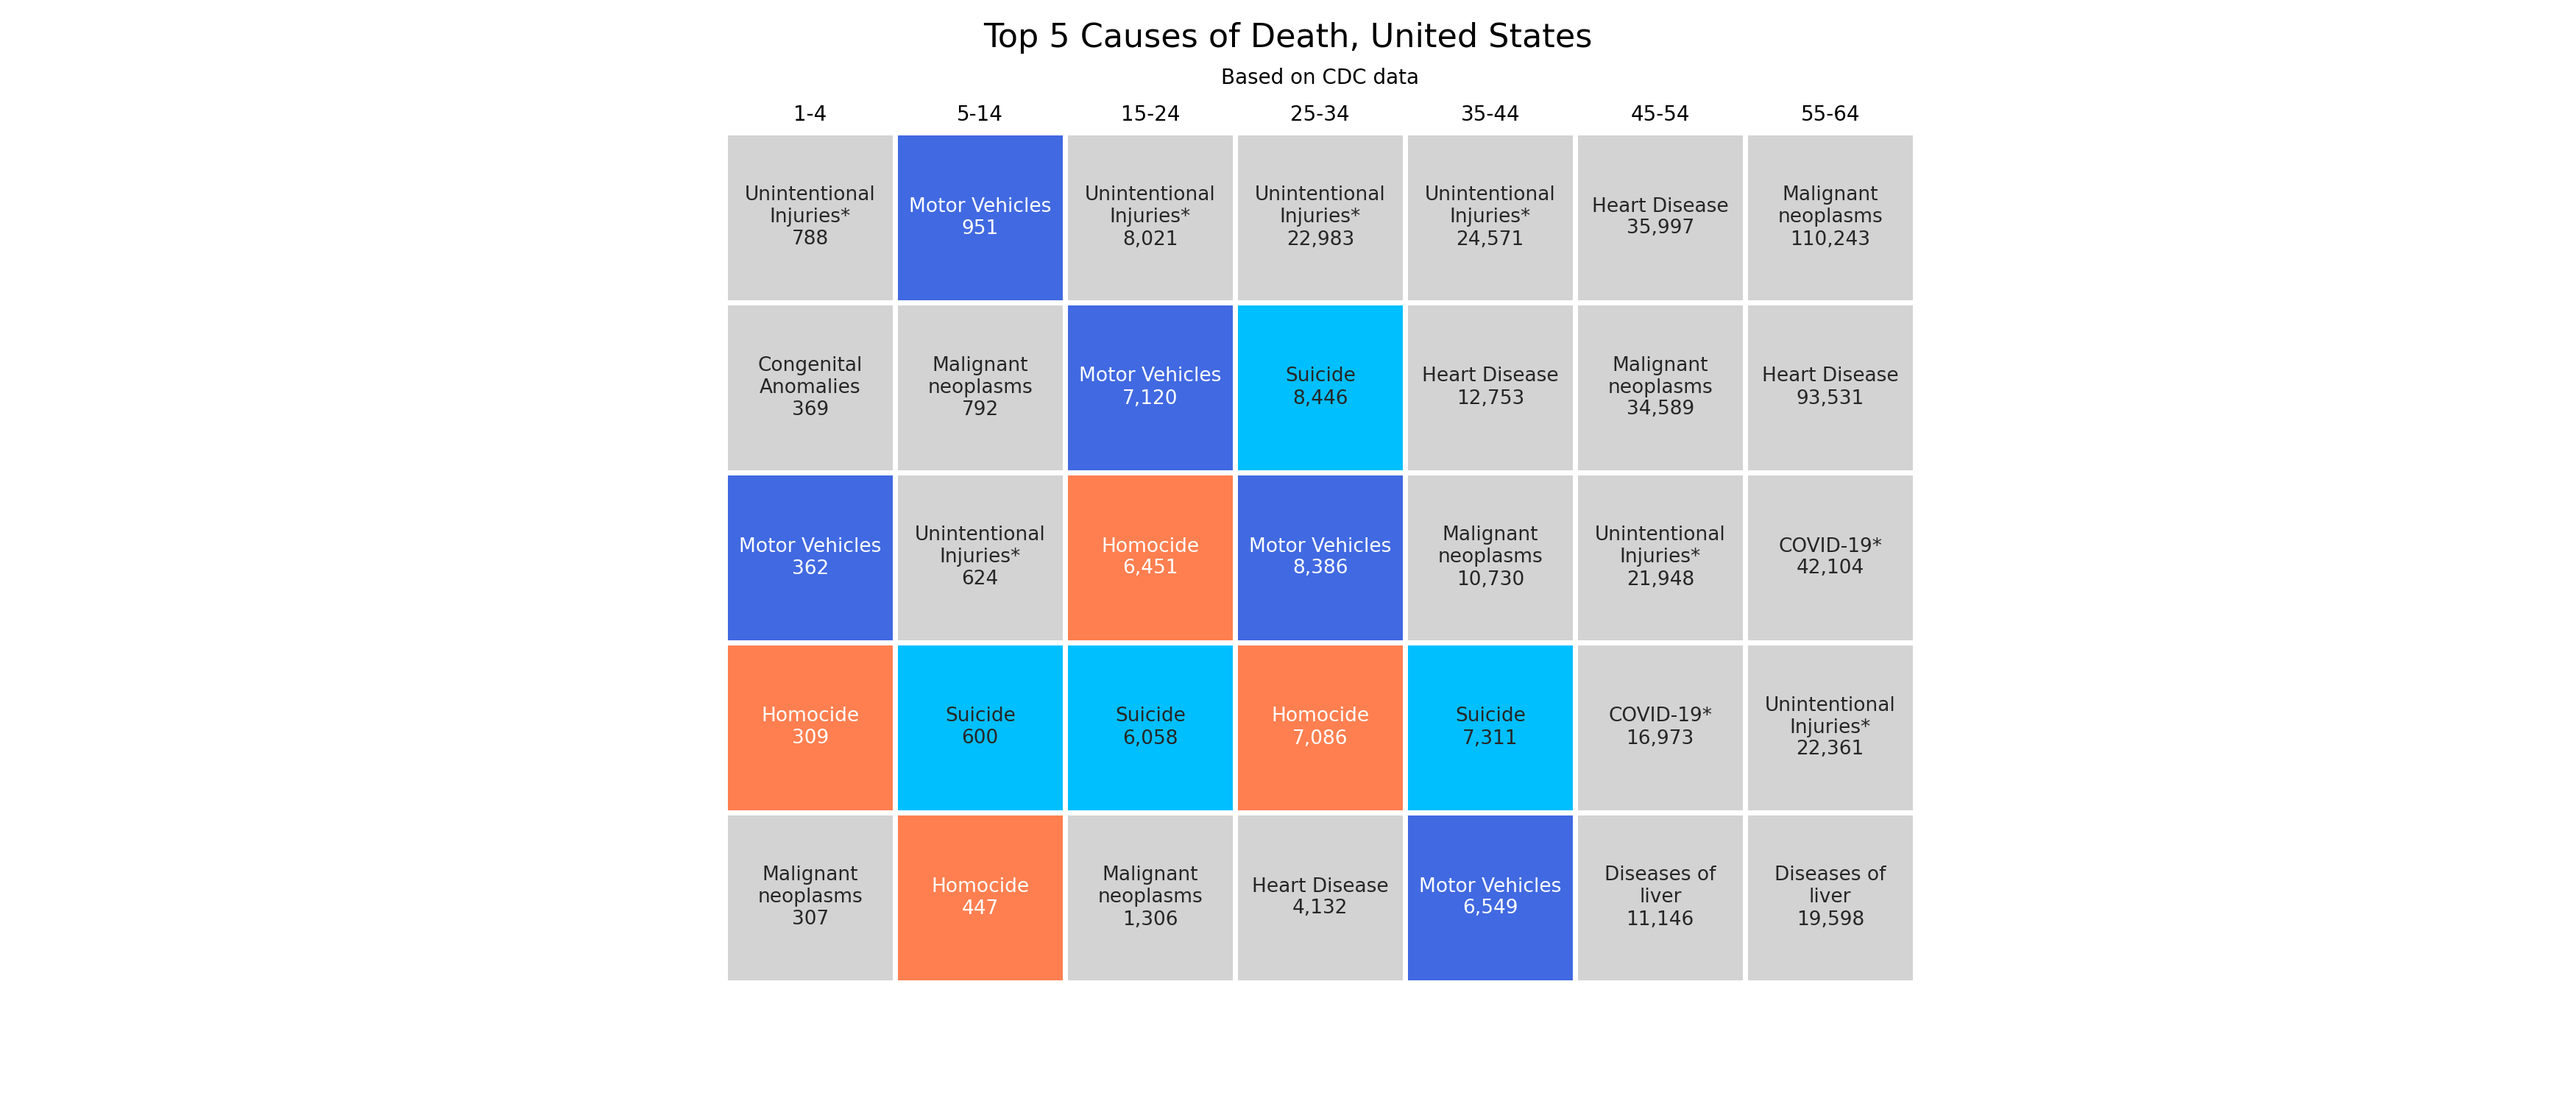
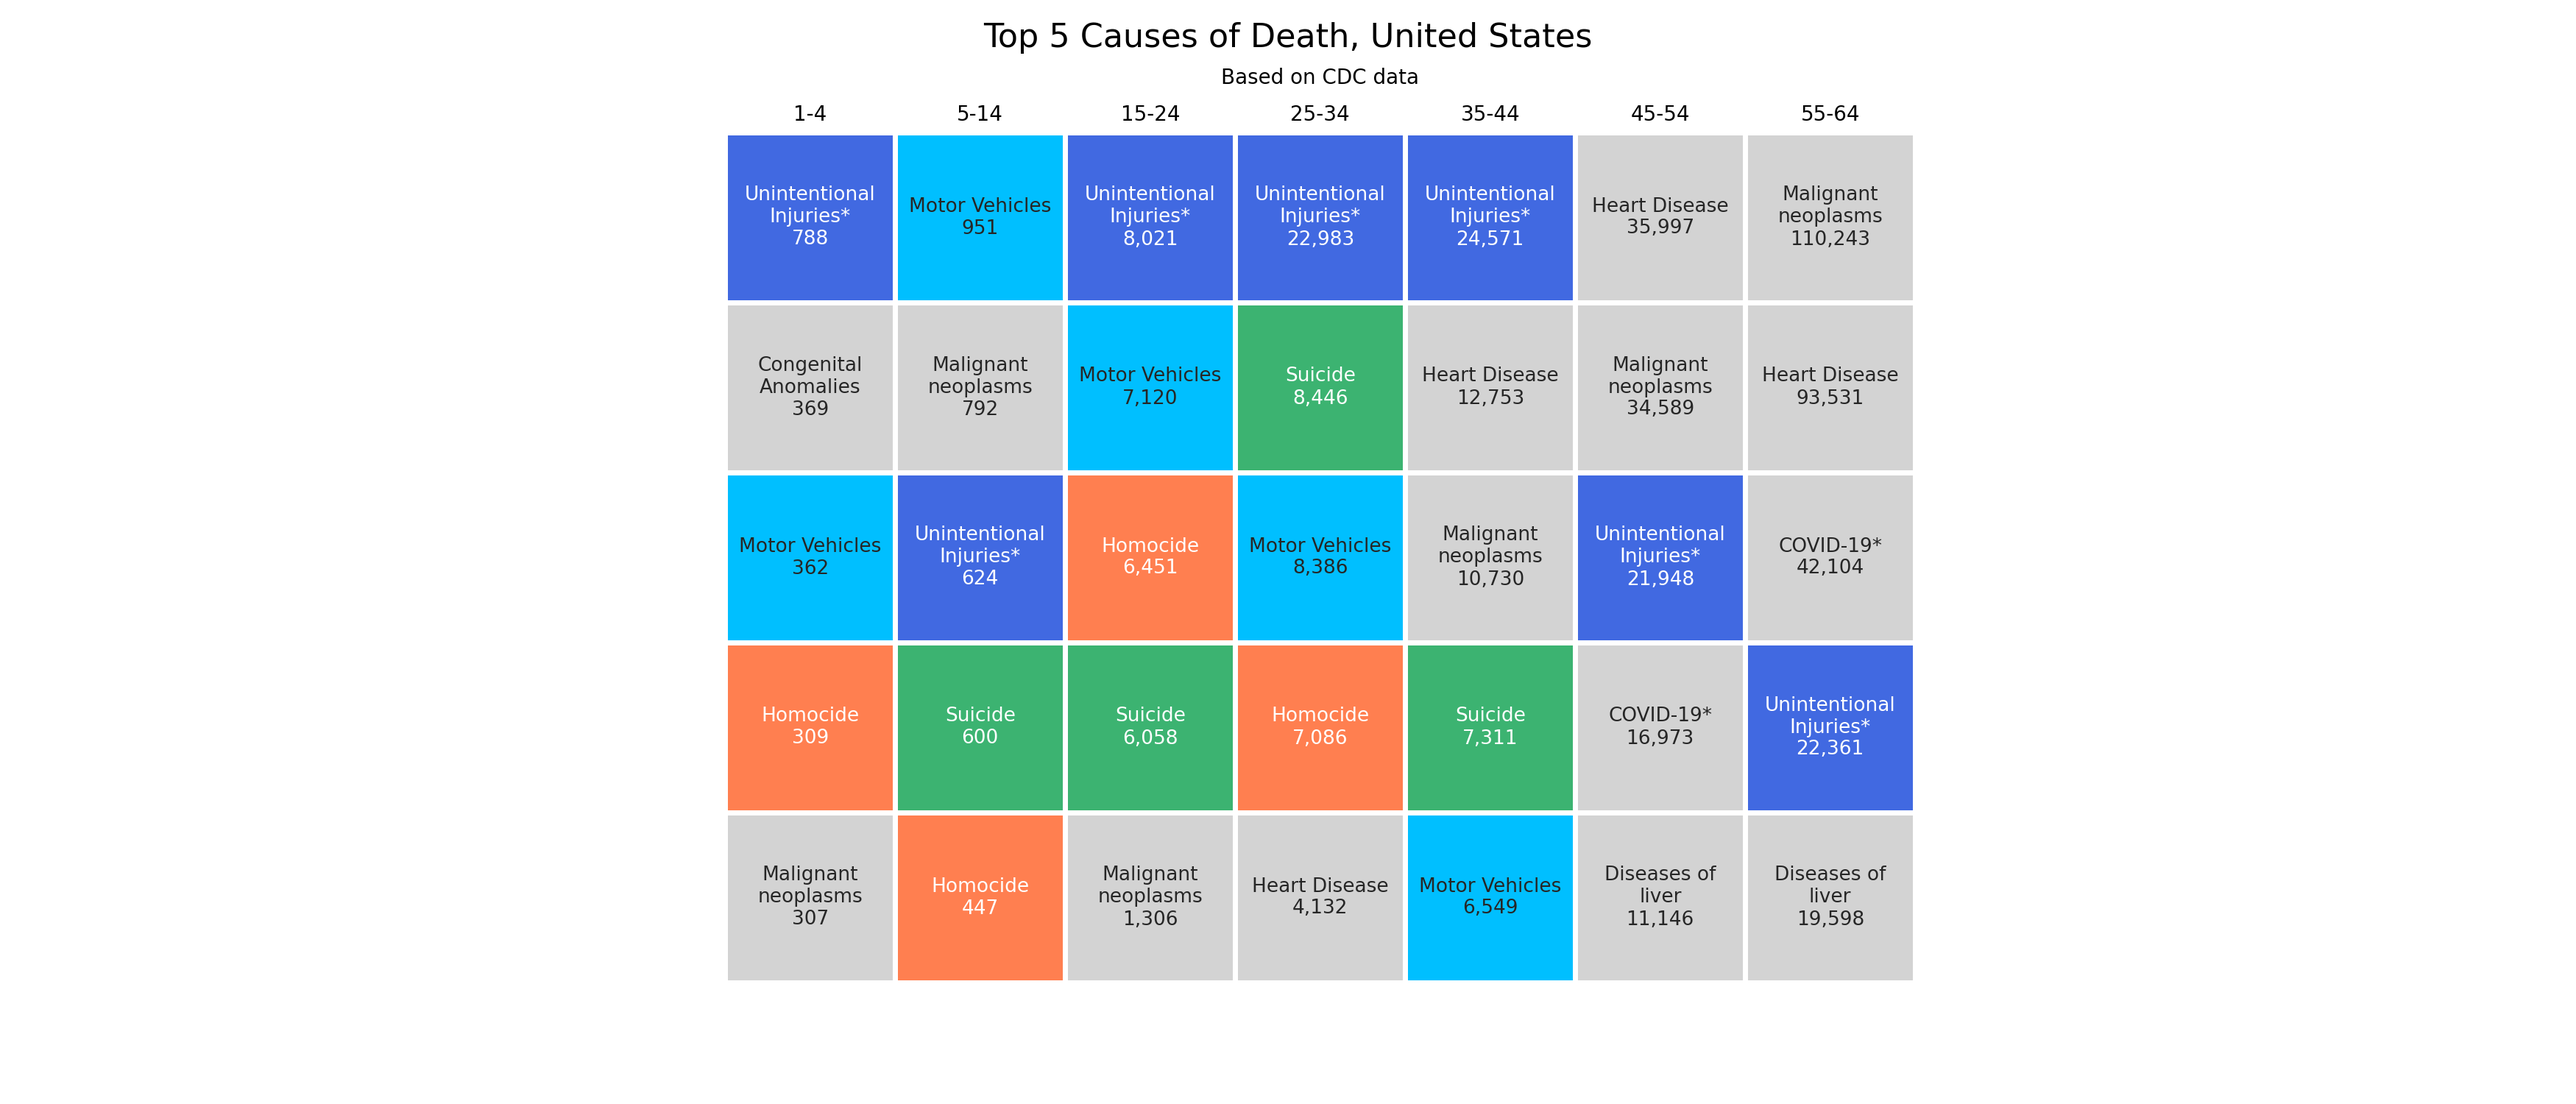
update some text

Changed region(s): [[0.2803, 0.1227, 0.7474, 0.8893]]

diff --git a/data_cleaning.py b/data_cleaning.py
@@ -12,14 +12,14 @@ path_to_data = "data/Underlying Cause of Death, 1999-2020.txt"
 n_largest = 5
 
 keep_ages_under_1 = False
-  
+
 all_ages = [
-    "1-4", "5-14", "15-24", "25-34", "35-44", "45-54", "55-64", "65-74", "75-84",
-    "85+"
-  ]
+  "1-4", "5-14", "15-24", "25-34", "35-44", "45-54", "55-64", "65-74", "75-84",
+  "85+"
+]
 
 if keep_ages_under_1:
-    all_ages.insert(0, "1")
+  all_ages.insert(0, "1")
 
 display_ages = ["1-4", "5-14", "15-24", "25-34", "35-44", "45-54", "55-64"]
 
@@ -137,11 +137,13 @@ df.to_pickle("data/cleaned_dataframe.pkl")
 
 #11 distinct age groups
 
+
 def create_heatmap(df):
-    
-  texts,cats = np.empty(
-    (n_largest, len(display_ages)), dtype=object),np.empty((n_largest,len(display_ages))) 
-  
+
+  texts, cats = np.empty((n_largest, len(display_ages)),
+                         dtype=object), np.empty(
+                           (n_largest, len(display_ages)))
+
   def one_hot_encode_category(sub_chapter):
     if sub_chapter == "Homocide":
       return 0
@@ -149,38 +151,46 @@ def create_heatmap(df):
       return 1
     elif sub_chapter == 'Motor Vehicles':
       return 2
-    elif sub_chapter == 'Unintentional Deaths besides Motor Vehicles':
+    elif sub_chapter == 'Unintentional Injuries*':
       return 3
     else:
       return -1
-    
+
   for idx, age in enumerate(display_ages):
     sub_df = df[df['Ten-Year Age Groups Code'] == age]
     vals = sub_df['Deaths'].values
     codes = sub_df['ICD Sub-Chapter']
     assert len(vals) == n_largest
     assert len(codes) == n_largest
-    new_codes = [textwrap.fill(c,16) + "\n" + "{:,}".format(v) for v,c in zip(vals,codes)]
+    new_codes = [
+      textwrap.fill(c, 16) + "\n" + "{:,}".format(v)
+      for v, c in zip(vals, codes)
+    ]
     texts[:, idx] = new_codes
-    cats[:,idx] = [one_hot_encode_category(c) for c in codes]
-    
-  
-  fig, ax = plt.subplots(figsize=(35,15))
-  fig.suptitle(f"Top {n_largest} Causes of Death, United States",fontsize=32)
-  ax.set_title("Based on CDC data",fontsize=20,pad=20)
-  ax.tick_params(left=False, right=False) 
-  cmap = ListedColormap(['lightgray','coral','mediumseagreen','deepskyblue','royalblue'])
-  bounds = [-2,-0.5,0.5,1.5,2.5,3.5,4.5]
+    cats[:, idx] = [one_hot_encode_category(c) for c in codes]
+
+  fig, ax = plt.subplots(figsize=(35, 15))
+  fig.suptitle(f"Top {n_largest} Causes of Death, United States", fontsize=32)
+  ax.set_title("Based on CDC data", fontsize=20, pad=20)
+  ax.tick_params(left=False, right=False)
+  cmap = ListedColormap(
+    ['lightgray', 'coral', 'mediumseagreen', 'deepskyblue', 'royalblue'])
+  bounds = [-2, -0.5, 0.5, 1.5, 2.5, 3.5, 4.5]
   ax = sns.heatmap(cats,
                    annot=texts,
                    fmt="",
                    cbar=False,
-                   cmap=cmap,linewidths=5,square=True, annot_kws={"size":19})
-  ax.set_xticklabels(display_ages,fontsize=20)
+                   cmap=cmap,
+                   linewidths=5,
+                   square=True,
+                   annot_kws={"size": 19})
+  ax.set_xticklabels(display_ages, fontsize=20)
   ax.set_yticks([])
   ax.xaxis.tick_top()
-  
-  ax.tick_params(top=False,bottom=False,right=False,left=False)
+
+  ax.tick_params(top=False, bottom=False, right=False, left=False)
   return fig
+
+
 fig = create_heatmap(df)
 fig.savefig("assets/heatmap.png")

diff --git a/streamlit.py b/streamlit.py
@@ -8,7 +8,6 @@ from PIL import Image
 import seaborn as sns
 from data_cleaning import display_ages, n_largest, create_heatmap
 
-
 df = pd.read_pickle("data/cleaned_dataframe.pkl")
 
 # Set the title of the app
@@ -24,8 +23,11 @@ st.markdown(intro_text)
 
 image = Image.open('assets/WISQARS_original_data_snip.jpeg')
 
-st.image(image, caption='Original CDC data visualization from here: https://wisqars.cdc.gov/data/lcd/home')
-
+st.image(
+  image,
+  caption=
+  'Original CDC data visualization from here: https://wisqars.cdc.gov/data/lcd/home'
+)
 
 transition_text = '''
 We pull the [CDC's own data](https://wonder.cdc.gov/controller/saved/D76/D316F097) to recreate the above plot. The only difference is that we separate out **Motor Vehicle's** from "Unintentional Injury". Small discrepancies exist due to updates to the dataset and discrepancies in coding.
@@ -38,15 +40,29 @@ st.write(fig)
 # Create the dropdown menu
 selected_age = st.selectbox("Select Age Range", display_ages)
 
-data = df[df['Ten-Year Age Groups Code']==selected_age][['Ten-Year Age Groups Code','ICD Sub-Chapter','Deaths']]
+data = df[df['Ten-Year Age Groups Code'] == selected_age][[
+  'Ten-Year Age Groups Code', 'ICD Sub-Chapter', 'Deaths'
+]]
 
 st.altair_chart(alt.Chart(data).mark_bar().encode(
-    x=alt.X('ICD Sub-Chapter', sort=None, axis=alt.Axis(labelAngle=-45,title="Cause of Death")),
-    y='Deaths',
-).properties(title={"text":f"Top {n_largest} Causes of Death for Ages {selected_age}, United States","subtitle":'Based on data from CDC'}), use_container_width=True)
+  x=alt.X('ICD Sub-Chapter',
+          sort=None,
+          axis=alt.Axis(labelAngle=-45, title="Cause of Death")),
+  y='Deaths',
+).properties(
+  title={
+    "text":
+    f"Top {n_largest} Causes of Death for Ages {selected_age}, United States",
+    "subtitle": 'Based on data from CDC'
+  }),
+                use_container_width=True)
 
 # Add a section at the bottom of the app
 st.markdown("---")
-st.markdown('<div align="center">This is a work in progress! Feedback and feature ideas are welcome on <a href="https://github.com/charlesxjyang/CDCmortality/issues">Github</a>. You can immediately play around with the data cleaning and plotting on <a href="https://replit.com/@charlesxjyang/CDCmortality">Replit</a> </div>',unsafe_allow_html=True)
+st.markdown(
+  '<div align="center">This is a work in progress! Feedback and feature ideas are welcome on <a href="https://github.com/charlesxjyang/CDCmortality/issues">Github</a>. You can play around with the data cleaning and plotting on <a href="https://replit.com/@charlesxjyang/CDCmortality">Replit</a> </div>',
+  unsafe_allow_html=True)
 # Add links to your GitHub and Twitter profiles
-st.markdown('<div align="center">Created by <a href="http://charlesyang.io">Charles Yang</a></div>',unsafe_allow_html=True)
+st.markdown(
+  '<div align="center">Created by <a href="http://charlesyang.io">Charles Yang</a></div>',
+  unsafe_allow_html=True)
